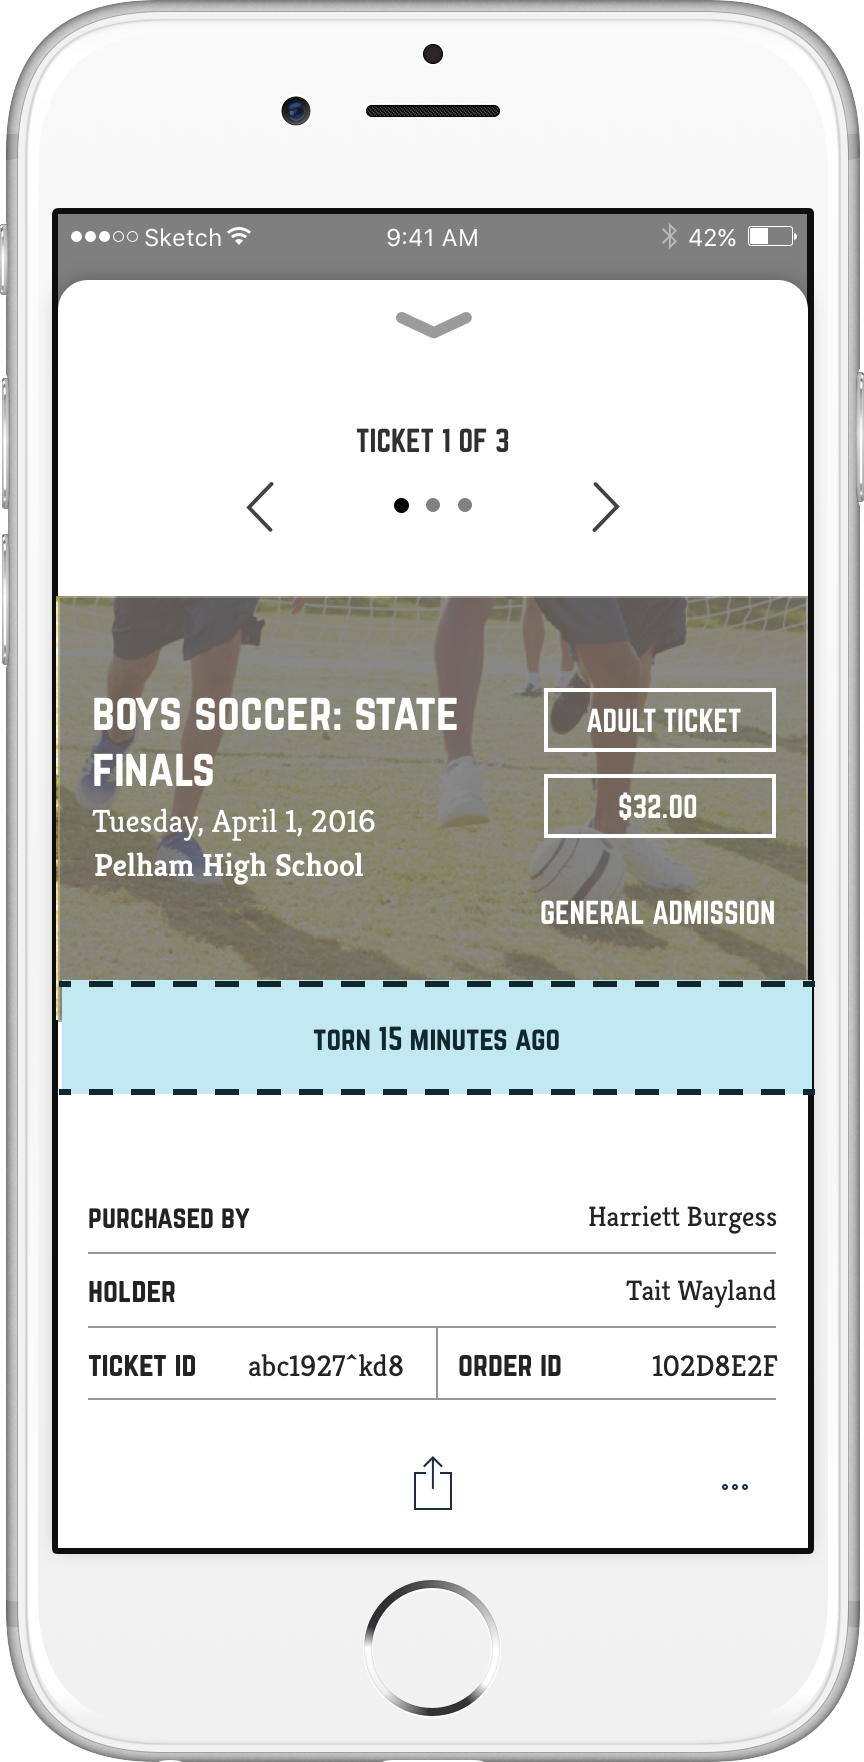
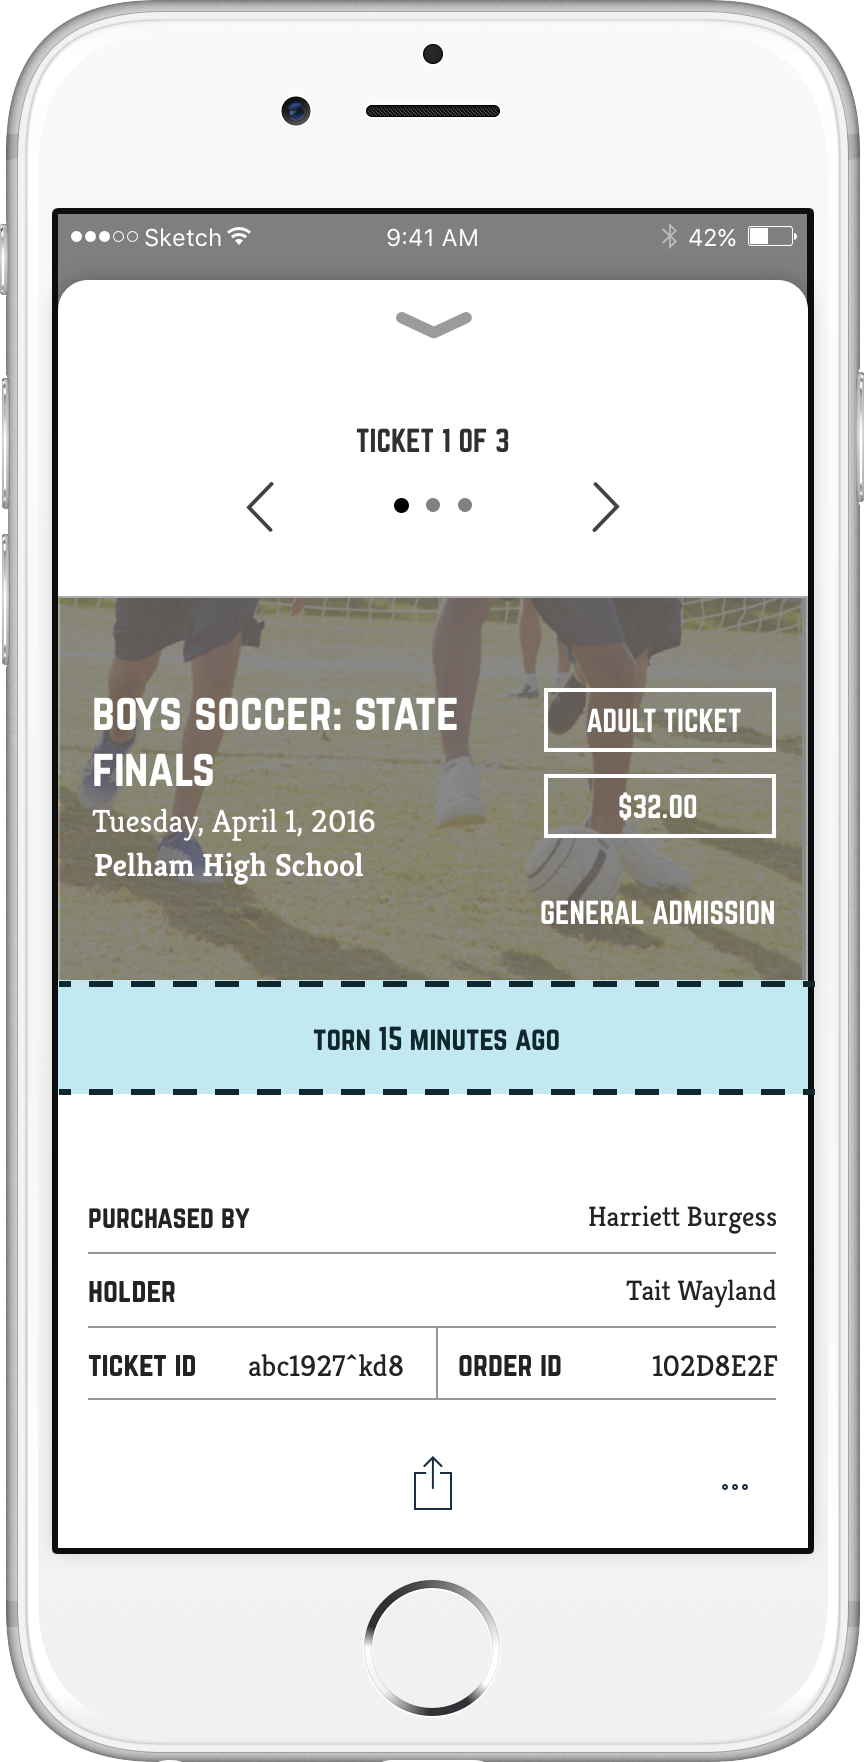
replaced some bad images

diff --git a/Partials/NCTrans.html b/Partials/NCTrans.html
@@ -53,26 +53,35 @@
   <article>
      <header class="main-header"><h2>objective</h2></header>
      <section class="content">
+       <article>
          <p>
            {{data.objective}}
          </p>
+       </article>
+         <article>
+           <img src="{{data.images}}/finals/visit.png"/>
+         </article>
      </section>
   </article>
   <article id="Challenges">
     <header class="main-header"><h2>{{data.challenge[0].title}}</h2></header>
     <section class="content">
-      <span>
-        <img ng-src="{{data.images}}/{{data.challenge[0].image1}}" alt="client meeting" />
-      </span>
-      <p>
-        {{data.challenge[0].section1}}
-        <br />
-        {{data.challenge[0].section2}}
-        <br />
-        {{data.challenge[0].section3}}
-        <br />
-        {{data.challenge[0].section4}}
-      </p>
+      <article>
+        <span>
+          <img ng-src="{{data.images}}/{{data.challenge[0].image1}}" alt="client meeting" />
+        </span>
+      </article>
+      <article>
+        <p>
+          {{data.challenge[0].section1}}
+          <br />
+          {{data.challenge[0].section2}}
+          <br />
+          {{data.challenge[0].section3}}
+          <br />
+          {{data.challenge[0].section4}}
+        </p>
+      </article>
     </section>
   </article>
   <article id="Research">
@@ -80,12 +89,16 @@
       <h2>{{data.research[0].title}}</h2>
     </header>
     <section class="content">
-      <span><img ng-src="{{data.images}}/{{data.inspiration[0].image1}}" alt="inspiration1" /></span>
-      <span><img ng-src="{{data.images}}/{{data.inspiration[0].image2}}" alt="inspiration2" /></span>
-      <span><img ng-src="{{data.images}}/{{data.inspiration[0].image3}}" alt="inspiration3" /></span>
+      <article>
+        <span><img ng-src="{{data.images}}/{{data.inspiration[0].image1}}" alt="inspiration1" /></span>
+        <span><img ng-src="{{data.images}}/{{data.inspiration[0].image2}}" alt="inspiration2" /></span>
+        <span><img ng-src="{{data.images}}/{{data.inspiration[0].image3}}" alt="inspiration3" /></span>
+      </article>
+      <article>
         <p>
           {{data.research[0].section1}}<a href="{{data.research[0].VulcanUrl}}">{{data.research[0].VulcanPark}}</a> {{data.research[0].section2}}
         </p>
+      </article>
     </section>
   </article>
   <article id="Branding">
@@ -97,23 +110,25 @@
           More on the branding process can be found <a href="https://projects.invisionapp.com/boards/VE1ZXGIUY7KFW/">here.</a>
         </p>
       </article>
-      <span ng-repeat="image in data.branding[0].images[0]" ng-animate="'animate'">
-        <img ng-src="{{data.images}}/{{image}}" />
-      </span>
-      <article class="final-image-box">
-        <img class="final-image" ng-src="{{data.images}}/{{data.branding[0].finalimage}}" />
-      </article>
+        <span ng-repeat="image in data.branding[0].images[0]" ng-animate="'animate'">
+          <img ng-src="{{data.images}}/{{image}}" />
+        </span>
+        <article class="final-image-box">
+          <img class="final-image" ng-src="{{data.images}}/{{data.branding[0].finalimage}}" />
+        </article>
     </section>
   </article>
   <article>
     <header class="main-header"><h2>{{data.wireframing[0].title}}</h2></header>
     <section class="content">
+      <article>
+        <p>
+          {{data.wireframing[0].section1}}
+        </p>
+      </article>
       <article ng-repeat="image in data.wireframing[0].images[0]">
         <img ng-src="{{data.images}}/{{image}}" alt="{{image}}" />
       </article>
-      <p>
-        {{data.wireframing[0].section1}}
-      </p>
     </section>
   </article>
   <article>
@@ -134,12 +149,10 @@
       </article>
     </section>
   </article>
-  <article>
-    <header class="main-header"></header>
-    <section class="content">
-    <a href="#/"><h2>< Back Home</h2></a>
-    </section>
-  </article>
 </main>
 
+
 <ldjson type="application/ld+json" data-json="data"></ldjson>
+<script async>
+  ga('send', 'screenview', {screenName: 'NCTrans'});
+</script>

diff --git a/Partials/ShareAndTear.html b/Partials/ShareAndTear.html
@@ -51,9 +51,14 @@
 <article>
      <header class="main-header"><h2>objective</h2></header>
      <section class="content">
-         <p>
-           {{data.objective}}
-         </p>
+         <article>
+           <p>
+             {{data.objective}}
+           </p>
+         </article>
+         <article>
+           <img ng-src="{{data.images}}/finals/ticketview.png" />
+         </article>
      </section>
   </article>
   <article id="Challenges">
@@ -90,11 +95,6 @@
       <article ng-repeat="image in data.final[0].images[0]" ng-animate="'animate'">
         <img ng-src="{{data.images}}/{{image}}" />
       </article>
-    </section>
-  </article>
-  <article>
-    <section class="content">
-    <a href="#/"><h2>< Back Home</h2></a>
     </section>
   </article>
 </main>
